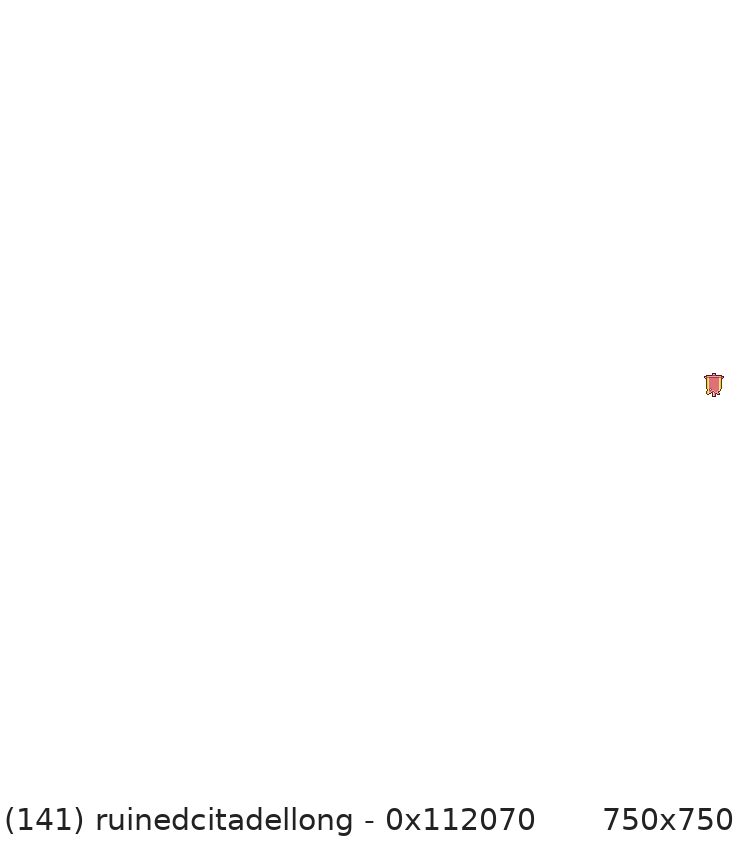
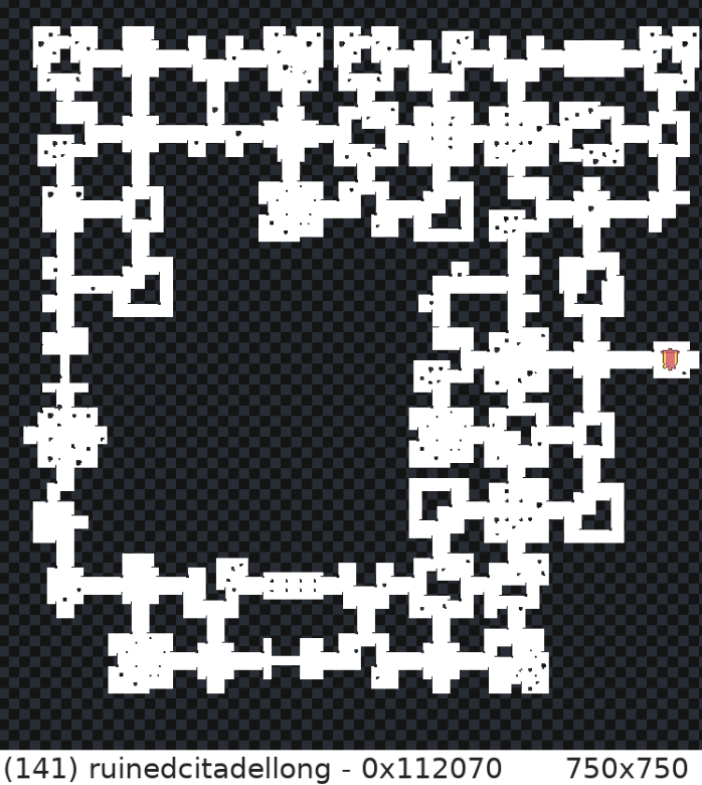
build: fix broken build

diff --git a/src/maprender/map.layer.collision.ts b/src/maprender/map.layer.collision.ts
@@ -16,13 +16,9 @@ export class MapLayerCollision {
       const startTime = Date.now();
 
       const act = AreaUtil.getAct(map.id);
-      if (act !== this.base.act) {
-        continue;
-      }
+      if (act !== this.base.act) continue;
 
-      if (!this.base.isMapInBounds(map, extent)) {
-        continue;
-      }
+      if (!this.base.isMapInBounds(map, extent)) continue;
 
       this.renderMap(map, ctx, extent, objects);
       this.base.log.info({ mapName: map.name, duration: Date.now() - startTime, mapId: map.id }, 'RenderMap');
@@ -38,13 +34,9 @@ export class MapLayerCollision {
     for (let yOffset = 0; yOffset < map.length; yOffset++) {
       const line = map[yOffset];
       let fill = false;
-      if (line.length === 0) {
-        continue;
-      }
+      if (line.length === 0) continue;
 
-      if (mapInfo.offset.y + yOffset < extent.min.y) {
-        continue;
-      }
+      if (mapInfo.offset.y + yOffset < extent.min.y) continue;
 
       let x = mapInfo.offset.x - extent.min.x;
       const y = mapInfo.offset.y - extent.min.y + yOffset;

diff --git a/src/maprender/sprite.ts b/src/maprender/sprite.ts
@@ -46,7 +46,7 @@ export const Sprites = {
   Cross: new Sprite('Cross', 2, 2),
   Player: new Sprite('Player', 0, 2),
   PlayerHydra: new Sprite('Hydra', 1, 0),
-  Item: new Sprite('Hydra', 4, 0),
+  Item: new Sprite('Hydra', 2, 2),
 
   Merc: new Sprite('Merc', 0, 2),
 

diff --git a/src/mapserver/map.image.ts b/src/mapserver/map.image.ts
@@ -69,7 +69,7 @@ export class MapImageRoute implements PiMapRoute {
     this.drawMapInfo(ctx, map, levelCode, seed);
 
     res.setHeader('Content-Type', 'image/png');
-    canvas.pngStream().pipe(res);
+    canvas.createPNGStream().pipe(res);
     return null;
   }
 }
